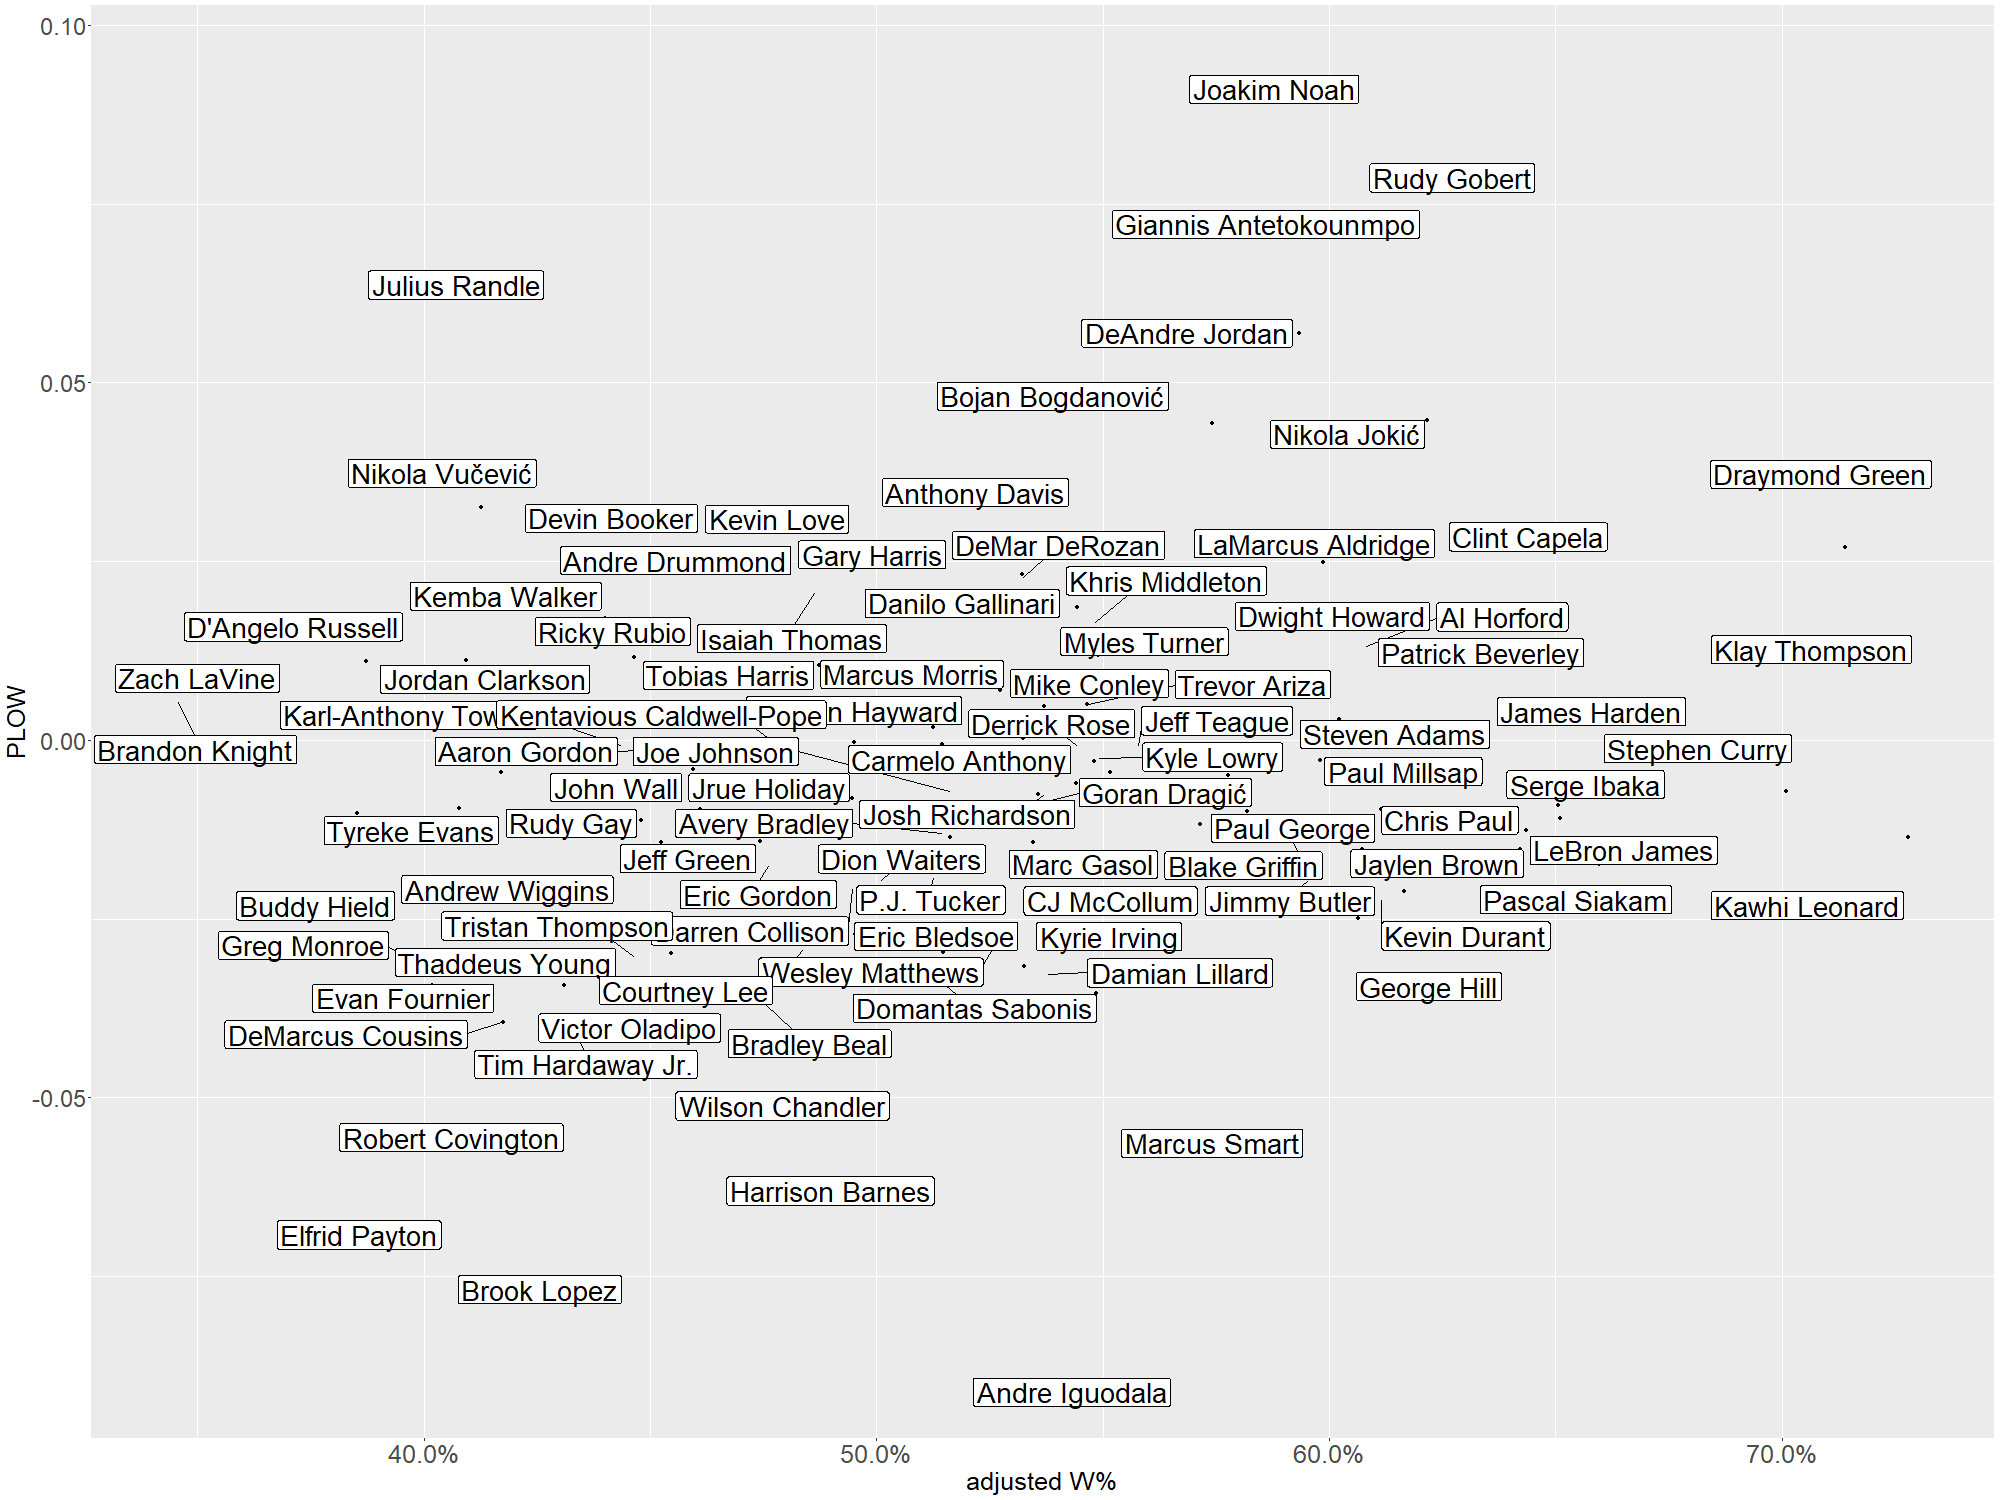
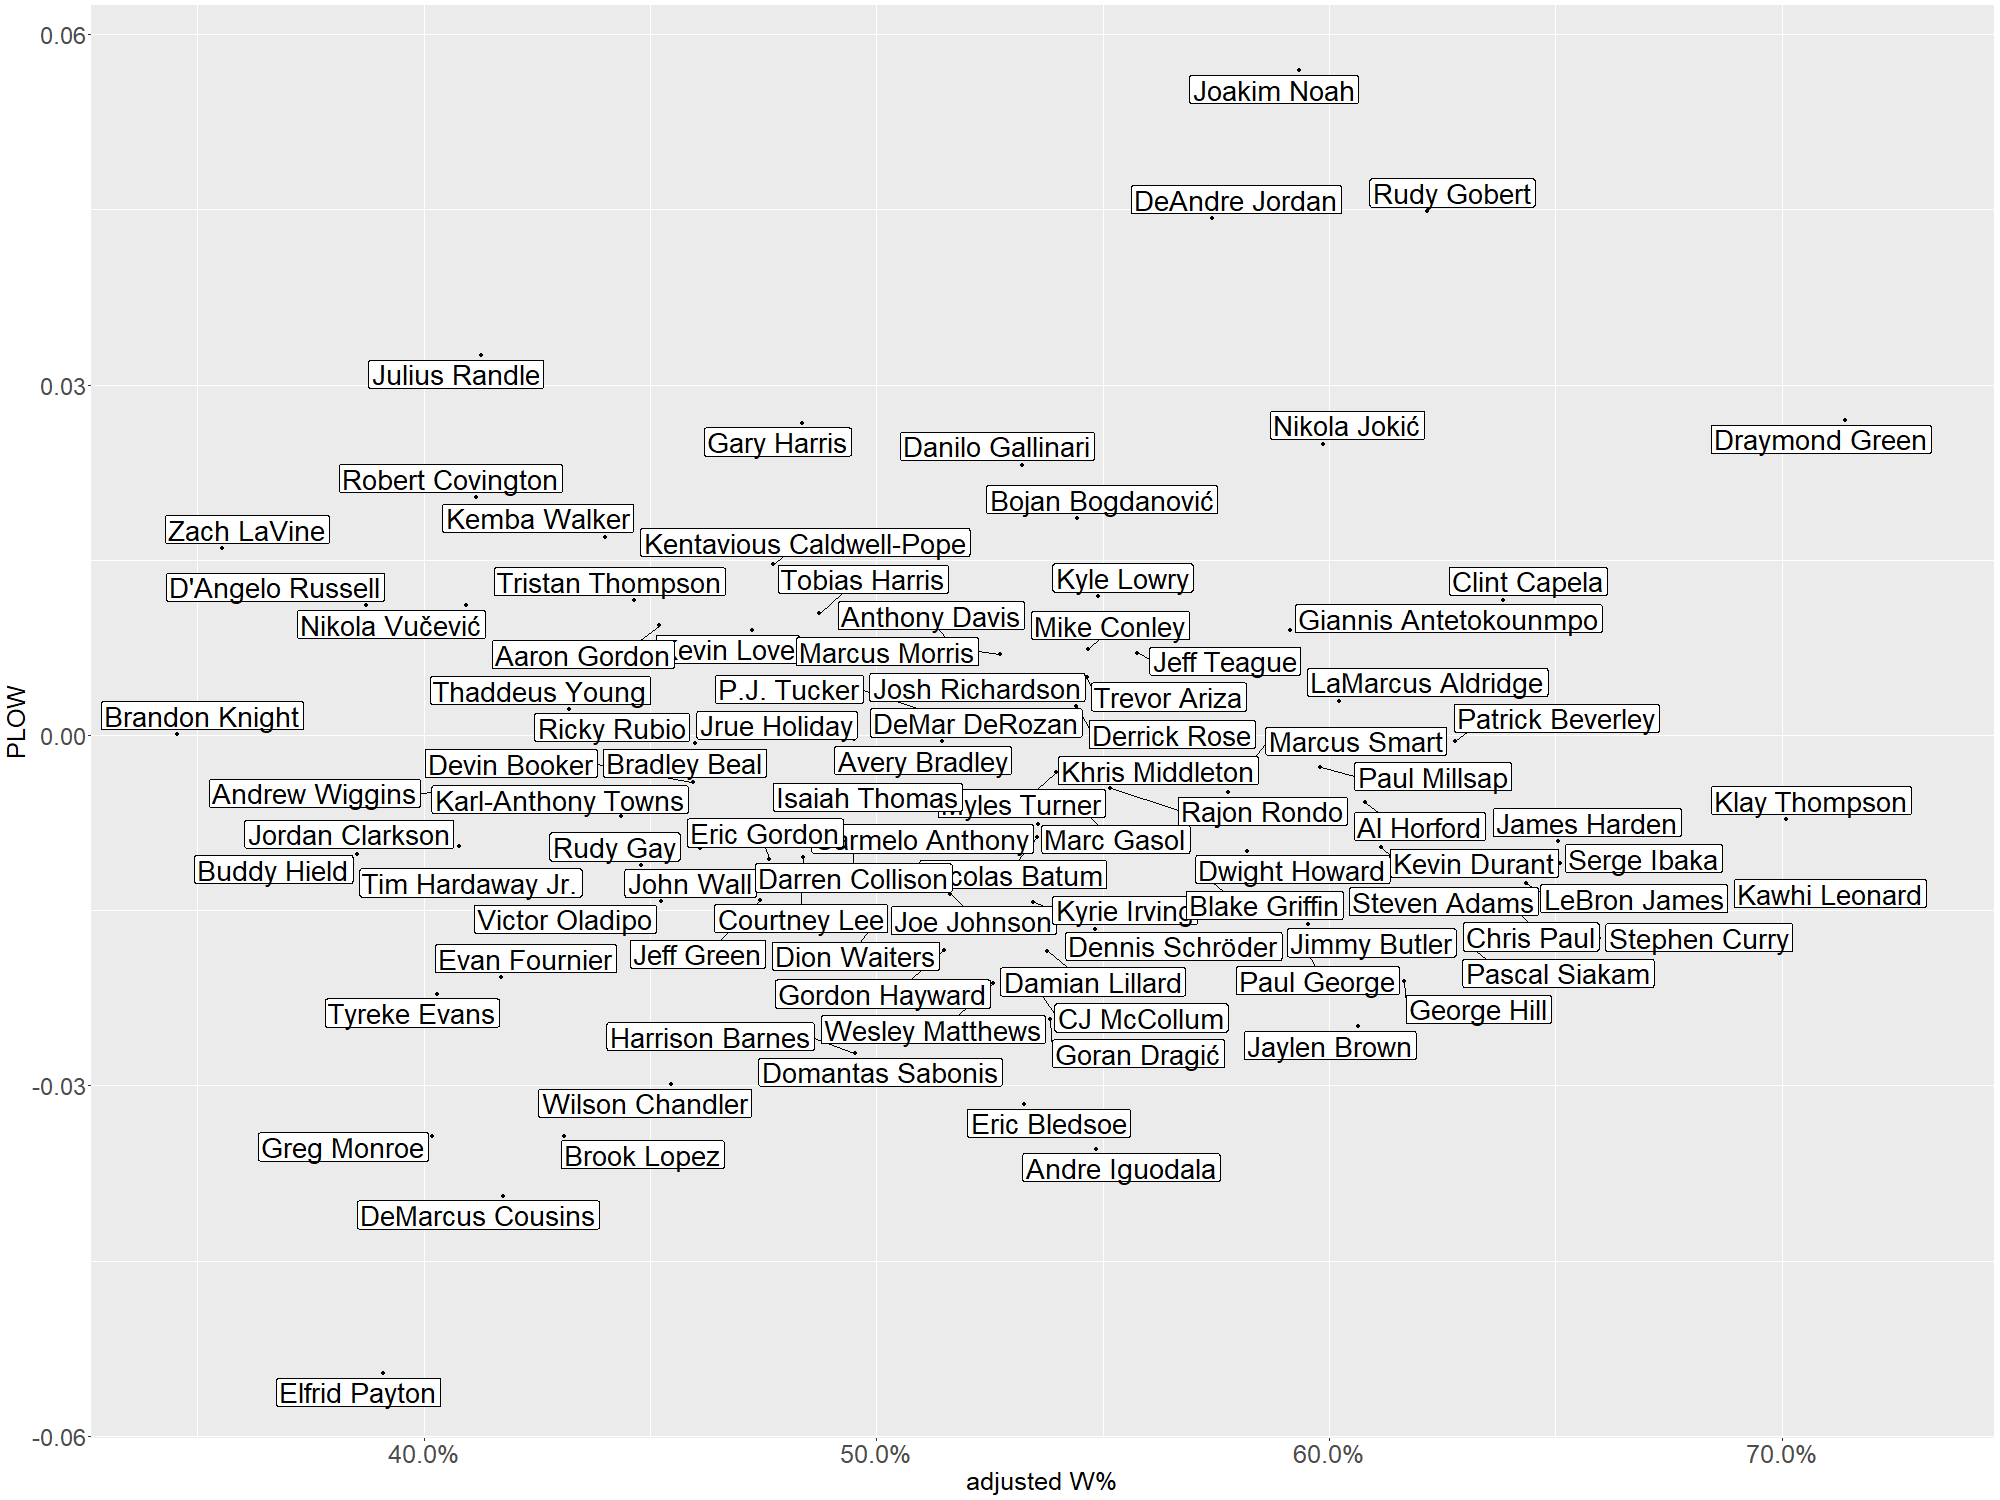
fixing PLOW; add graphs to readme

diff --git a/README.md b/README.md
@@ -4,7 +4,9 @@ Calculating and visualizing some NBA stats
 ## Quantifying whether players have bigger roles on winning teams
 
 **PLOW (Playing Longer On Winners)**: to what extent a player played more minutes in wins
+![This is an image](https://raw.githubusercontent.com/sheng-fu/NBA_stats/main/PLOW.png)
 
 **BORROW (Bigger Offensive Roles, Relatively, On Winners)**: to what extent a player had more offensive roles in more playing times in wins
+![This is an image](https://raw.githubusercontent.com/sheng-fu/NBA_stats/main/BORROW.png)
 
 (More descriptions and stats to come!)
